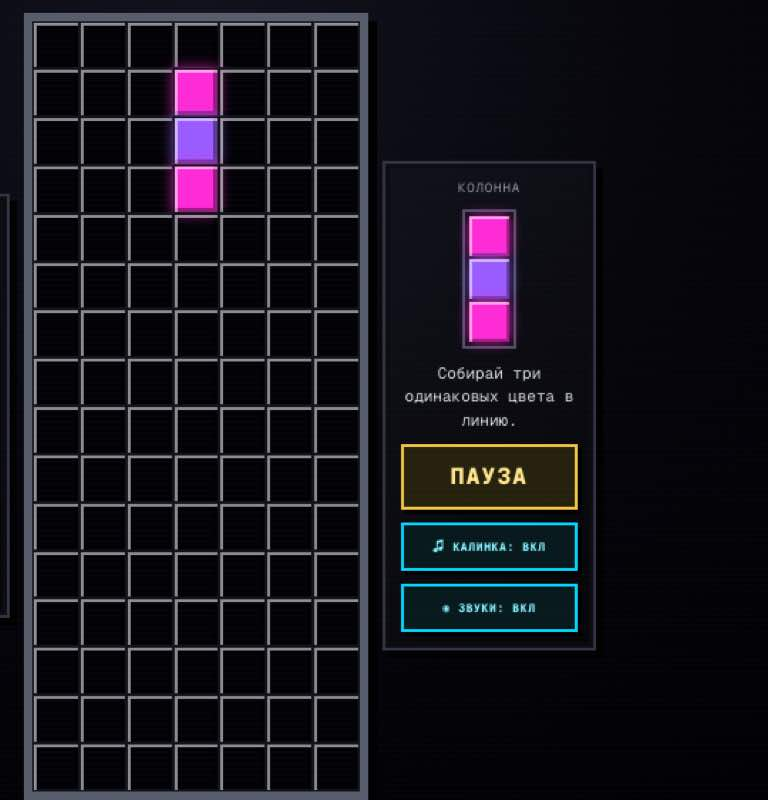
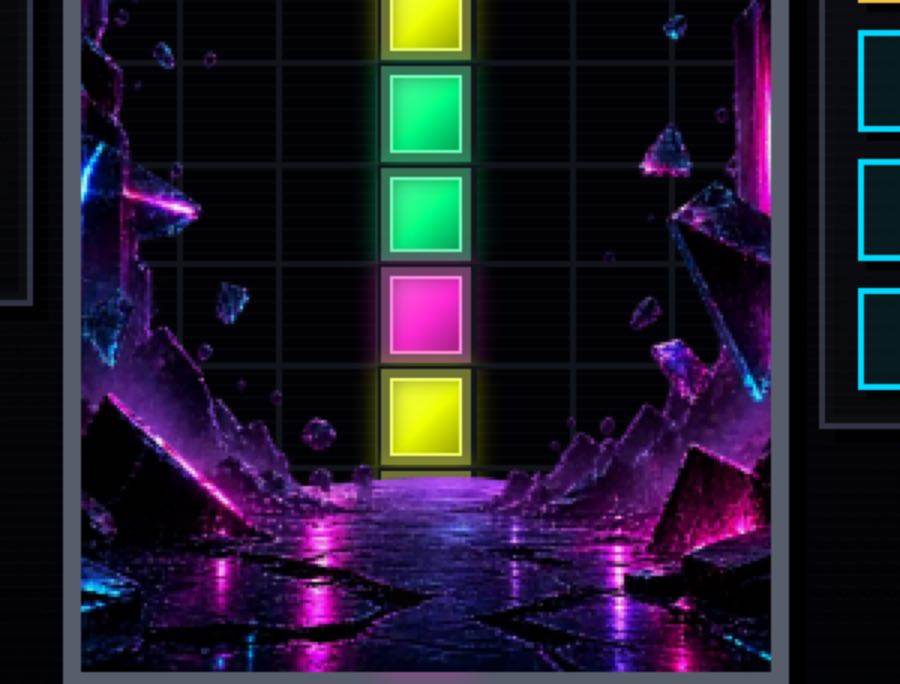
Re-shoot the games, because the games moved on
Every frame was taken before the last round of work on these games, and it
showed: Тетколор had grown a crystal backdrop, ACID UNO a whole neon
corridor, Деревня a new coin with a village on it, Неон Линии a dark board.
The cards were advertising the previous versions.

Тетколор was the worst of them — an empty grid with no floor in view, which
told you nothing about the game. The tool can press keys now, so pieces are
dropped before the shot and the frame is aimed at the bottom of the well.
Наотмашь no longer shows a wall of weapon descriptions: picking the flail
gets into the arena, where there is a viking and something to hit.

Two games grew tutorials that cover the field on first visit; both are
skipped before the shot. Лила is gone from the plan — it is gone from the
site.

diff --git a/index.html b/index.html
@@ -487,8 +487,8 @@
         <section class="block block--lead" aria-label="Играбельное">
           <div class="ggrid">
         <a class="gcard" data-art="uno" href="/acid/" data-umami-event="game-open" data-umami-event-game="acid-uno">
-          <span class="gart" aria-hidden="true"><img class="gshot" src="/assets/shots/game-acid.jpg?v=fab230c4" alt=""
-                width="900" height="497" decoding="async" loading="lazy"><i></i><i></i><i></i></span>
+          <span class="gart" aria-hidden="true"><img class="gshot" src="/assets/shots/game-acid.jpg?v=926d066d" alt=""
+                width="900" height="414" decoding="async" loading="lazy"><i></i><i></i><i></i></span>
           <div class="gcard-body">
             <div class="gcard-top"><span class="status status-live">играть</span></div>
             <h3 class="gcard-title">ACID UNO</h3>
@@ -497,8 +497,8 @@
           </div>
         </a>
         <a class="gcard" data-art="cubes" href="/tetcolor/" data-umami-event="game-open" data-umami-event-game="tetcolor">
-          <span class="gart" aria-hidden="true"><img class="gshot" src="/assets/shots/game-tetcolor.jpg?v=154d0775" alt=""
-                width="768" height="800" decoding="async" loading="lazy"><i></i><i></i><i></i></span>
+          <span class="gart" aria-hidden="true"><img class="gshot" src="/assets/shots/game-tetcolor.jpg?v=d949d148" alt=""
+                width="900" height="684" decoding="async" loading="lazy"><i></i><i></i><i></i></span>
           <div class="gcard-body">
             <div class="gcard-top"><span class="status status-live">играть</span></div>
             <h3 class="gcard-title">Тетколор</h3>
@@ -507,8 +507,8 @@
           </div>
         </a>
         <a class="gcard" data-art="rps" href="/stihii/" data-umami-event="game-open" data-umami-event-game="knb-2">
-          <span class="gart" aria-hidden="true"><img class="gshot" src="/assets/shots/game-stihii.jpg?v=36ad61b7" alt=""
-                width="900" height="497" decoding="async" loading="lazy"><i></i><i></i><i></i></span>
+          <span class="gart" aria-hidden="true"><img class="gshot" src="/assets/shots/game-stihii.jpg?v=23dc1db5" alt=""
+                width="900" height="321" decoding="async" loading="lazy"><i></i><i></i><i></i></span>
           <div class="gcard-body">
             <div class="gcard-top"><span class="status status-alpha">альфа-версия</span></div>
             <h3 class="gcard-title">Битва Стихий</h3>
@@ -517,7 +517,7 @@
           </div>
         </a>
         <a class="gcard" data-art="elements" href="/technomagic/" data-umami-event="game-open" data-umami-event-game="technomagic">
-          <span class="gart" aria-hidden="true"><img class="gshot" src="/assets/shots/game-technomagic.jpg?v=6a6fdbcd" alt=""
+          <span class="gart" aria-hidden="true"><img class="gshot" src="/assets/shots/game-technomagic.jpg?v=9cbd9f2a" alt=""
                 width="900" height="497" decoding="async" loading="lazy"><i></i><i></i><i></i></span>
           <div class="gcard-body">
             <div class="gcard-top"><span class="status status-alpha">альфа</span></div>
@@ -535,8 +535,8 @@
           </div>
           <div class="ggrid">
         <a class="gcard" data-art="orbs" href="/lines/" data-umami-event="game-open" data-umami-event-game="neon-lines">
-          <span class="gart" aria-hidden="true"><img class="gshot" src="/assets/shots/game-lines.jpg?v=4e8876f4" alt=""
-                width="800" height="792" decoding="async" loading="lazy"><i></i><i></i><i></i></span>
+          <span class="gart" aria-hidden="true"><img class="gshot" src="/assets/shots/game-lines.jpg?v=793f2858" alt=""
+                width="900" height="717" decoding="async" loading="lazy"><i></i><i></i><i></i></span>
           <div class="gcard-body">
             <div class="gcard-top"><span class="status status-live">играть</span></div>
             <h3 class="gcard-title">Неон Линии</h3>
@@ -545,8 +545,8 @@
           </div>
         </a>
         <a class="gcard" data-art="coin" href="/coin/" data-umami-event="game-open" data-umami-event-game="coin-flip">
-          <span class="gart" aria-hidden="true"><img class="gshot" src="/assets/shots/game-coin.jpg?v=4734bbc2" alt=""
-                width="900" height="497" decoding="async" loading="lazy"><i></i><i></i></span>
+          <span class="gart" aria-hidden="true"><img class="gshot" src="/assets/shots/game-coin.jpg?v=2ef0a927" alt=""
+                width="900" height="817" decoding="async" loading="lazy"><i></i><i></i></span>
           <div class="gcard-body">
             <div class="gcard-top"><span class="status status-live">играть</span></div>
             <h3 class="gcard-title">Деревня</h3>
@@ -555,7 +555,7 @@
           </div>
         </a>
         <a class="gcard" data-art="chain" href="/worm/" data-umami-event="game-open" data-umami-event-game="worm">
-          <span class="gart" aria-hidden="true"><img class="gshot" src="/assets/shots/game-worm.jpg?v=67cb3bb5" alt=""
+          <span class="gart" aria-hidden="true"><img class="gshot" src="/assets/shots/game-worm.jpg?v=7fab26fa" alt=""
                 width="900" height="497" decoding="async" loading="lazy"><i></i><i></i><i></i></span>
           <div class="gcard-body">
             <div class="gcard-top"><span class="status status-live">играть</span></div>
